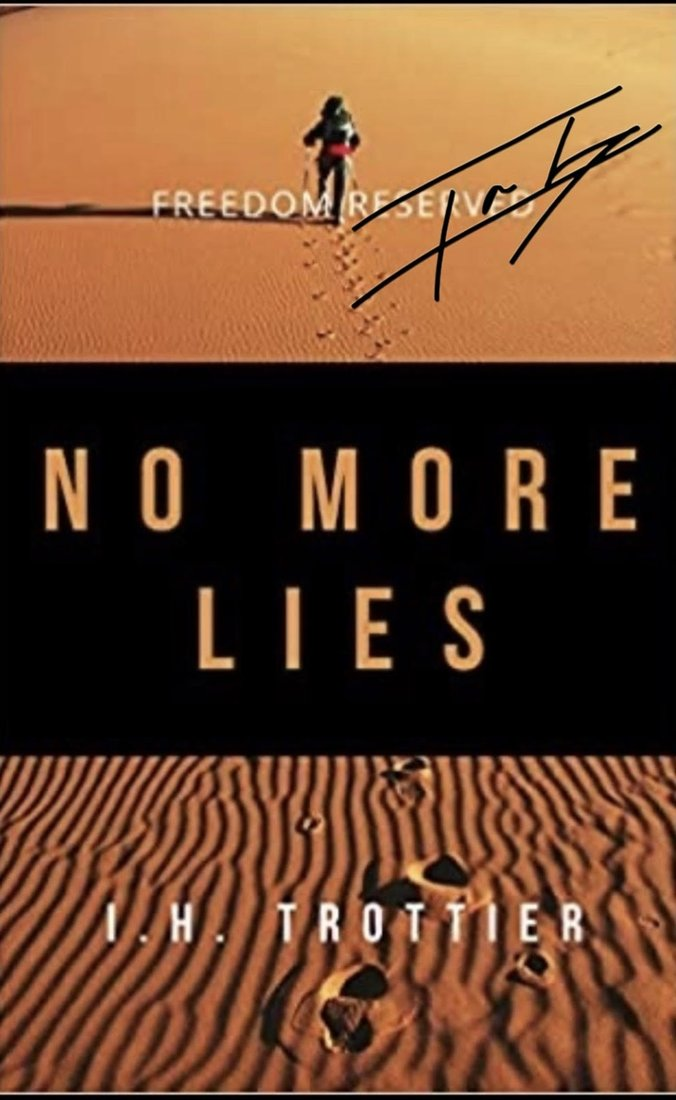
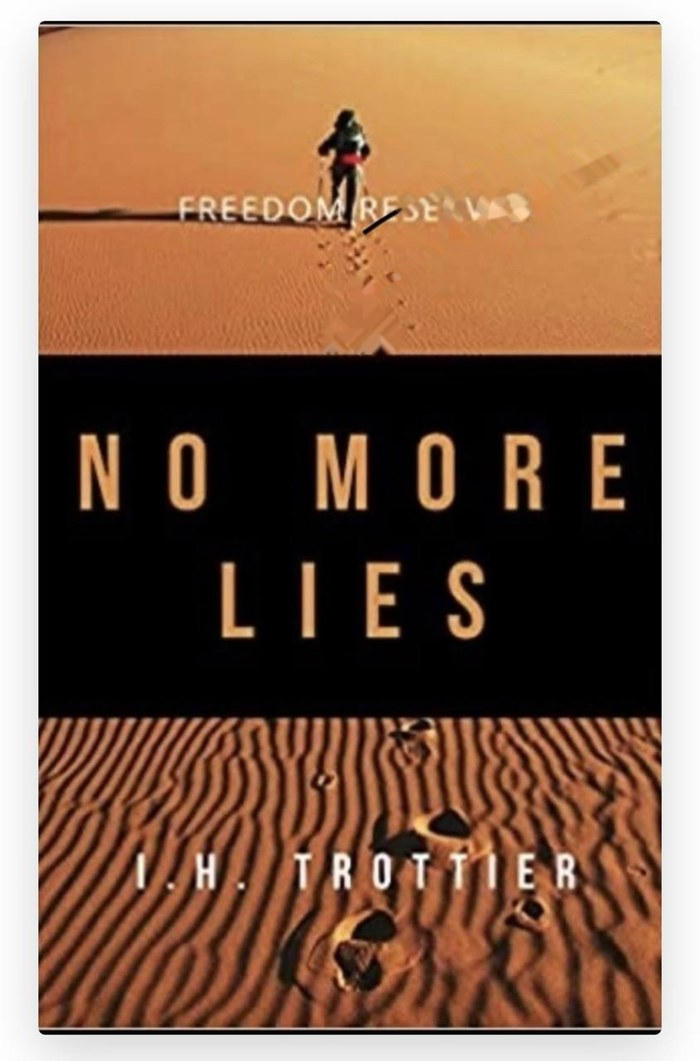
Replace Freedom Reserved cover with the de-signed clean version

diff --git a/books.html b/books.html
@@ -47,6 +47,6 @@ footer a{color:#c9ced6;text-decoration:none}
 @media(max-width:640px){.bookrow{grid-template-columns:1fr}}
 #book h2{color:#c8102e;display:inline-block;border-bottom:3px solid #e8b923;padding-bottom:8px}</style>
 </head>
-<body><header><div class="wrap nav"><a href="index.html" class="brand"><img src="images/logo.png" alt="Trottier" style="height:40px;display:block"></a><div class="navlinks"><a href="index.html">Home</a><a href="books.html">Books</a><a href="https://open.spotify.com/show/68u4EWH6EfCtvR3encjHCF?si=pM9xnm-TQwOqJ8LbVhjvvw&utm_source=copy-link" target="_blank" rel="noopener">Podcasts</a><a href="articles.html">Articles</a><a href="about.html">About</a><a href="contact.html">Contact</a><a href="donate.html">Donate</a></div></div></header><div class="hero"><div class="wrap"><div class="eyebrow">Books</div><h1>Two books. One argument.</h1><p class="lede">The record, the institutions, and what was reserved to the people.</p></div></div><section id="book"><div class="wrap"><div class="kicker">The book</div><h2>High Stakes Treason</h2><div class="bookrow"><img class="cover" src="https://www.highstakestreasonbook.com/images/2fd2e5ec-1a78-4933-be9c-195557c3d5bc.webp" alt="High Stakes Treason by Ian Trottier"><div><p>Published by Bombardier Books in 2025. 430 pages. It traces John Brennan&rsquo;s career from the CIA through the White House and lays out the documentary record of what was done with the country&rsquo;s counterterrorism apparatus.</p><p>Signed copies ship direct from me.</p><div class="btns"><a class="btn" href="https://buy.stripe.com/8x27sKexF4tX9JN0x76EU01">Autographed &mdash; $35</a><a class="btn ghost" href="https://link.amazon/B09sac3Ne">Amazon</a></div></div></div></div></section><section><div class="wrap"><div class="kicker">Also by Ian</div><h2>Freedom Reserved: No More Lies</h2><div class="bookrow"><img class="cover" src="images/freedom-reserved.jpg" alt="Freedom Reserved: No More Lies by Ian Trottier"><div><p>My first book. The argument that the freedoms reserved to the people were being quietly transferred to institutions that answer to no one.</p><div class="btns"><a class="btn" href="https://www.booksamillion.com/p/Freedom-Reserved/Ian-Hamilton-Trottier/9781634242899">Buy the book</a><a class="btn ghost" href="https://www.amazon.com/dp/B0D3661WXZ">eBook</a></div></div></div></div></section><section><div class="wrap"><div class="kicker">Featured in</div><h2>Google Leaks</h2><div class="bookrow"><img class="cover" src="images/google-leaks.jpg" alt="Google Leaks: A Whistleblower Expose of Big Tech Censorship by Zach Vorhies"><div><p>Zach Vorhies&rsquo; 2021 expos&eacute; of Big Tech censorship. Ian is quoted in it &mdash; the account of what happened at Doral on October 15, 2020, when President Trump called him a &ldquo;prizefighter,&rdquo; appears in Chapter 13, pages 158&ndash;164.</p><div class="btns"><a class="btn" href="https://link.amazon/B0dc9uYNA">Buy on Amazon</a></div></div></div></div></section><footer><div class="wrap">Ian Trottier &middot; <a href="index.html">Home</a> &middot; <a href="books.html">Books</a> &middot; <a href="contact.html">Contact</a> &middot; <a href="donate.html">Donate</a></div></footer>
+<body><header><div class="wrap nav"><a href="index.html" class="brand"><img src="images/logo.png" alt="Trottier" style="height:40px;display:block"></a><div class="navlinks"><a href="index.html">Home</a><a href="books.html">Books</a><a href="https://open.spotify.com/show/68u4EWH6EfCtvR3encjHCF?si=pM9xnm-TQwOqJ8LbVhjvvw&utm_source=copy-link" target="_blank" rel="noopener">Podcasts</a><a href="articles.html">Articles</a><a href="about.html">About</a><a href="contact.html">Contact</a><a href="donate.html">Donate</a></div></div></header><div class="hero"><div class="wrap"><div class="eyebrow">Books</div><h1>Two books. One argument.</h1><p class="lede">The record, the institutions, and what was reserved to the people.</p></div></div><section id="book"><div class="wrap"><div class="kicker">The book</div><h2>High Stakes Treason</h2><div class="bookrow"><img class="cover" src="https://www.highstakestreasonbook.com/images/2fd2e5ec-1a78-4933-be9c-195557c3d5bc.webp" alt="High Stakes Treason by Ian Trottier"><div><p>Published by Bombardier Books in 2025. 430 pages. It traces John Brennan&rsquo;s career from the CIA through the White House and lays out the documentary record of what was done with the country&rsquo;s counterterrorism apparatus.</p><p>Signed copies ship direct from me.</p><div class="btns"><a class="btn" href="https://buy.stripe.com/8x27sKexF4tX9JN0x76EU01">Autographed &mdash; $35</a><a class="btn ghost" href="https://link.amazon/B09sac3Ne">Amazon</a></div></div></div></div></section><section><div class="wrap"><div class="kicker">Also by Ian</div><h2>Freedom Reserved: No More Lies</h2><div class="bookrow"><img class="cover" src="images/freedom-reserved.jpg?v=20261112" alt="Freedom Reserved: No More Lies by Ian Trottier"><div><p>My first book. The argument that the freedoms reserved to the people were being quietly transferred to institutions that answer to no one.</p><div class="btns"><a class="btn" href="https://www.booksamillion.com/p/Freedom-Reserved/Ian-Hamilton-Trottier/9781634242899">Buy the book</a><a class="btn ghost" href="https://www.amazon.com/dp/B0D3661WXZ">eBook</a></div></div></div></div></section><section><div class="wrap"><div class="kicker">Featured in</div><h2>Google Leaks</h2><div class="bookrow"><img class="cover" src="images/google-leaks.jpg" alt="Google Leaks: A Whistleblower Expose of Big Tech Censorship by Zach Vorhies"><div><p>Zach Vorhies&rsquo; 2021 expos&eacute; of Big Tech censorship. Ian is quoted in it &mdash; the account of what happened at Doral on October 15, 2020, when President Trump called him a &ldquo;prizefighter,&rdquo; appears in Chapter 13, pages 158&ndash;164.</p><div class="btns"><a class="btn" href="https://link.amazon/B0dc9uYNA">Buy on Amazon</a></div></div></div></div></section><footer><div class="wrap">Ian Trottier &middot; <a href="index.html">Home</a> &middot; <a href="books.html">Books</a> &middot; <a href="contact.html">Contact</a> &middot; <a href="donate.html">Donate</a></div></footer>
 </body>
 </html>
